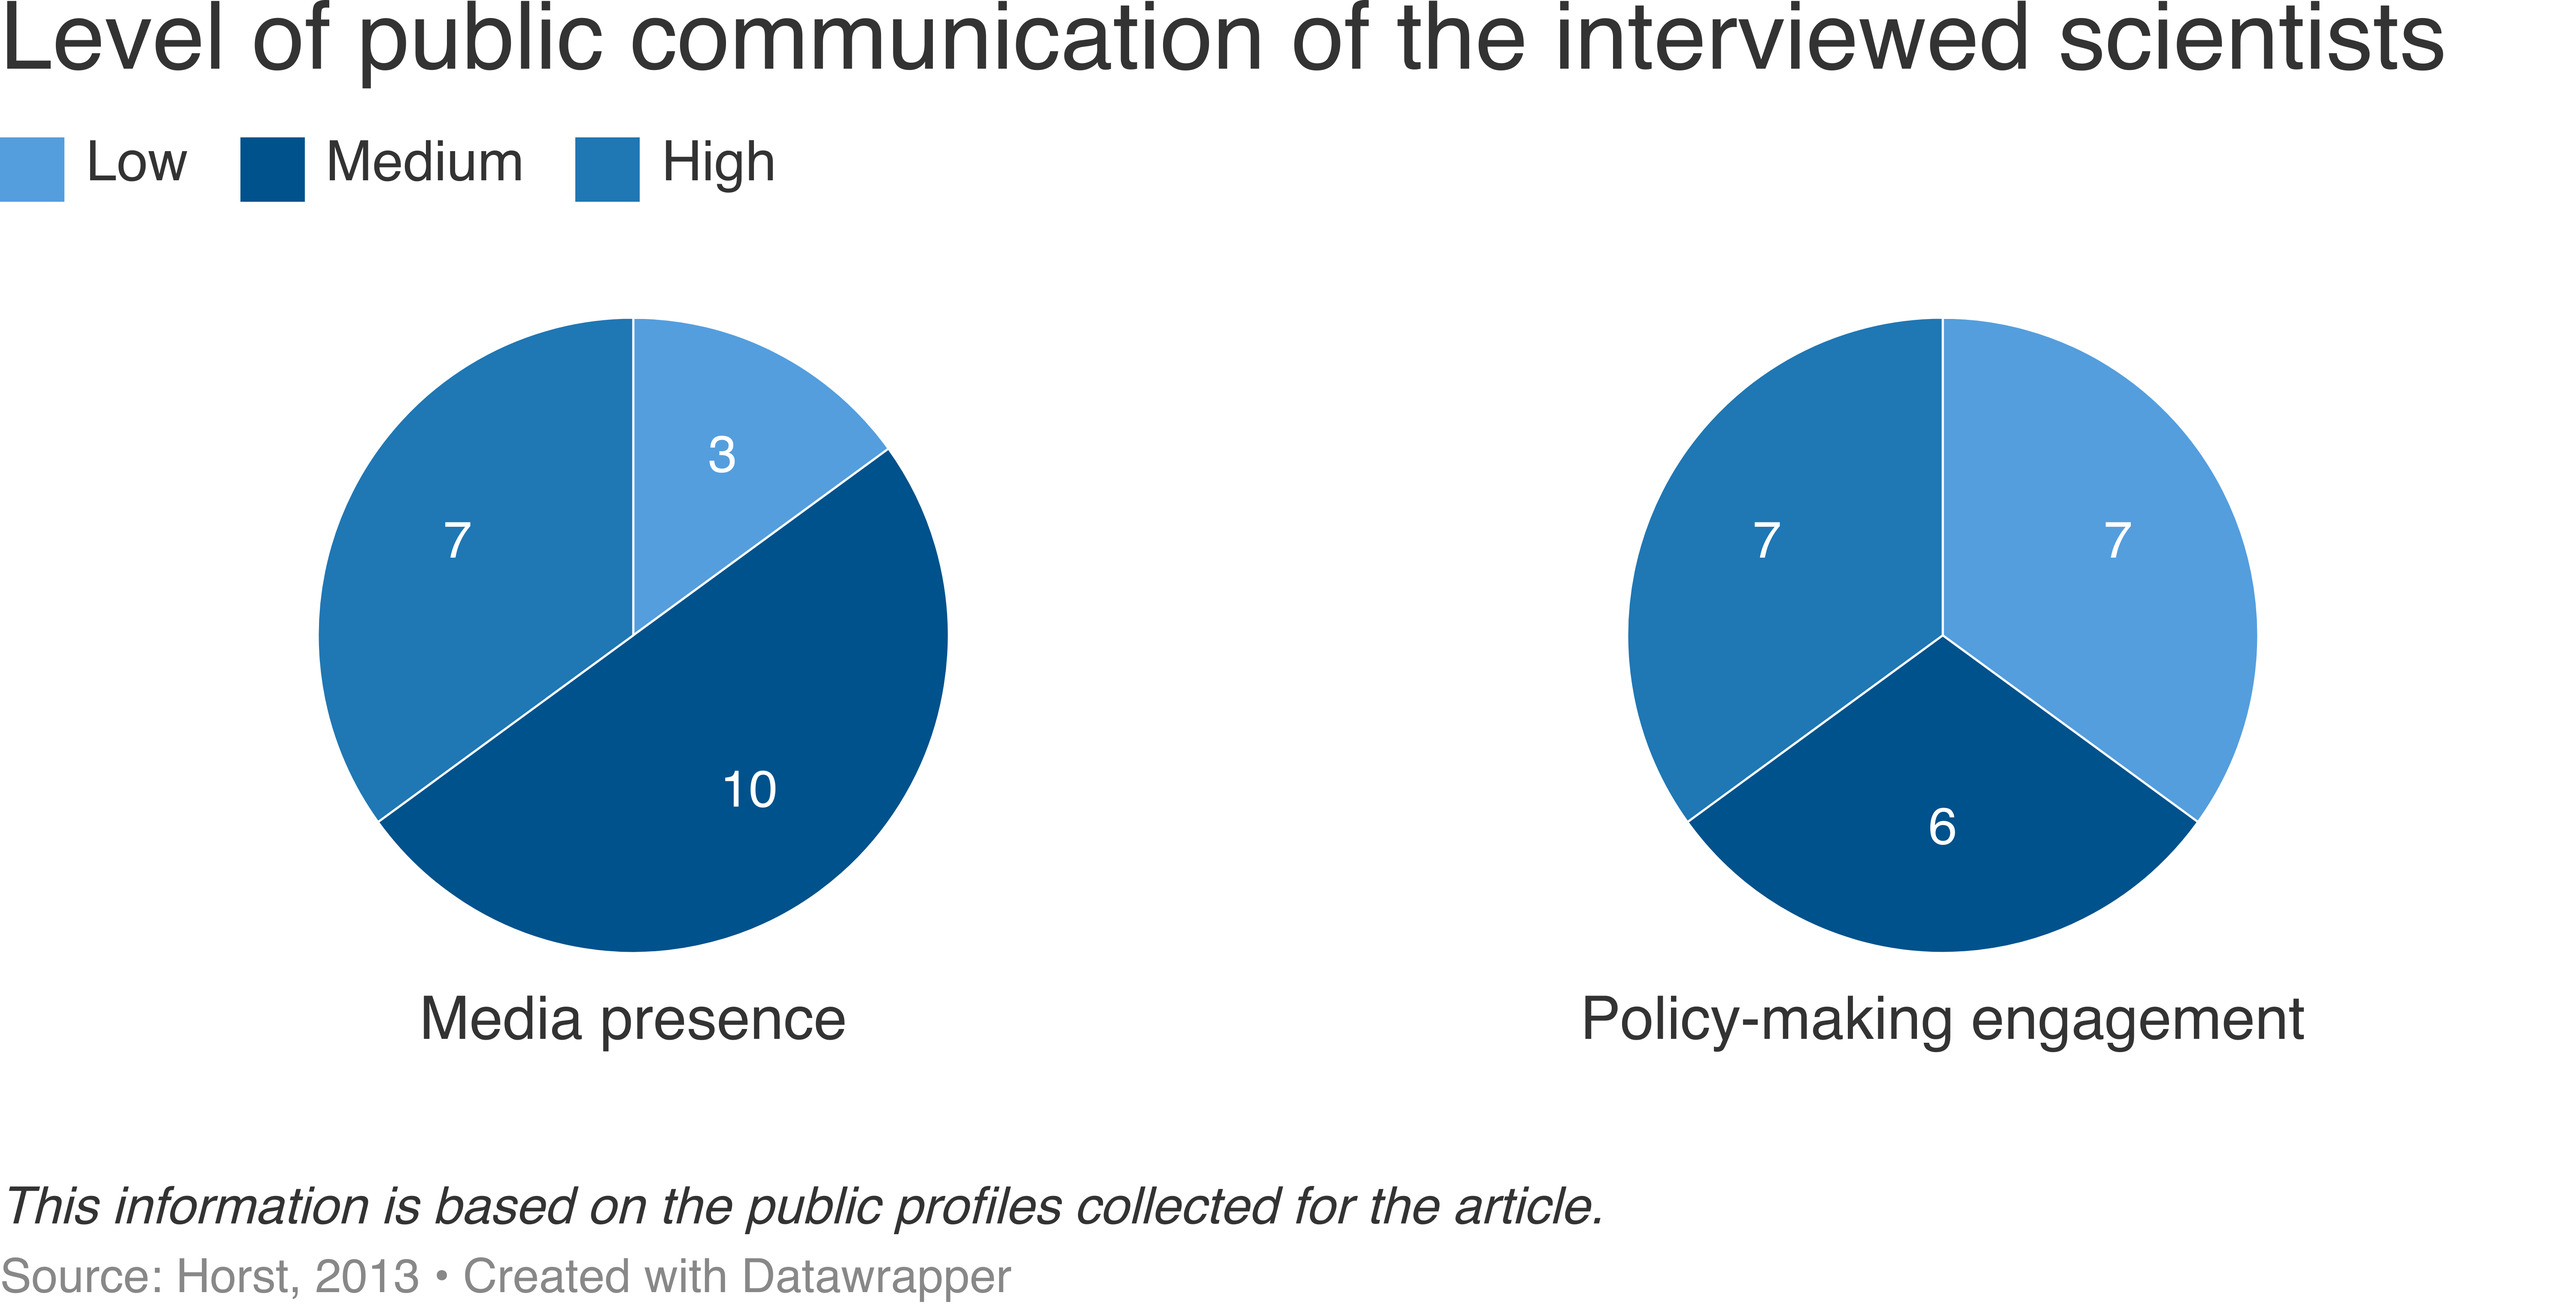
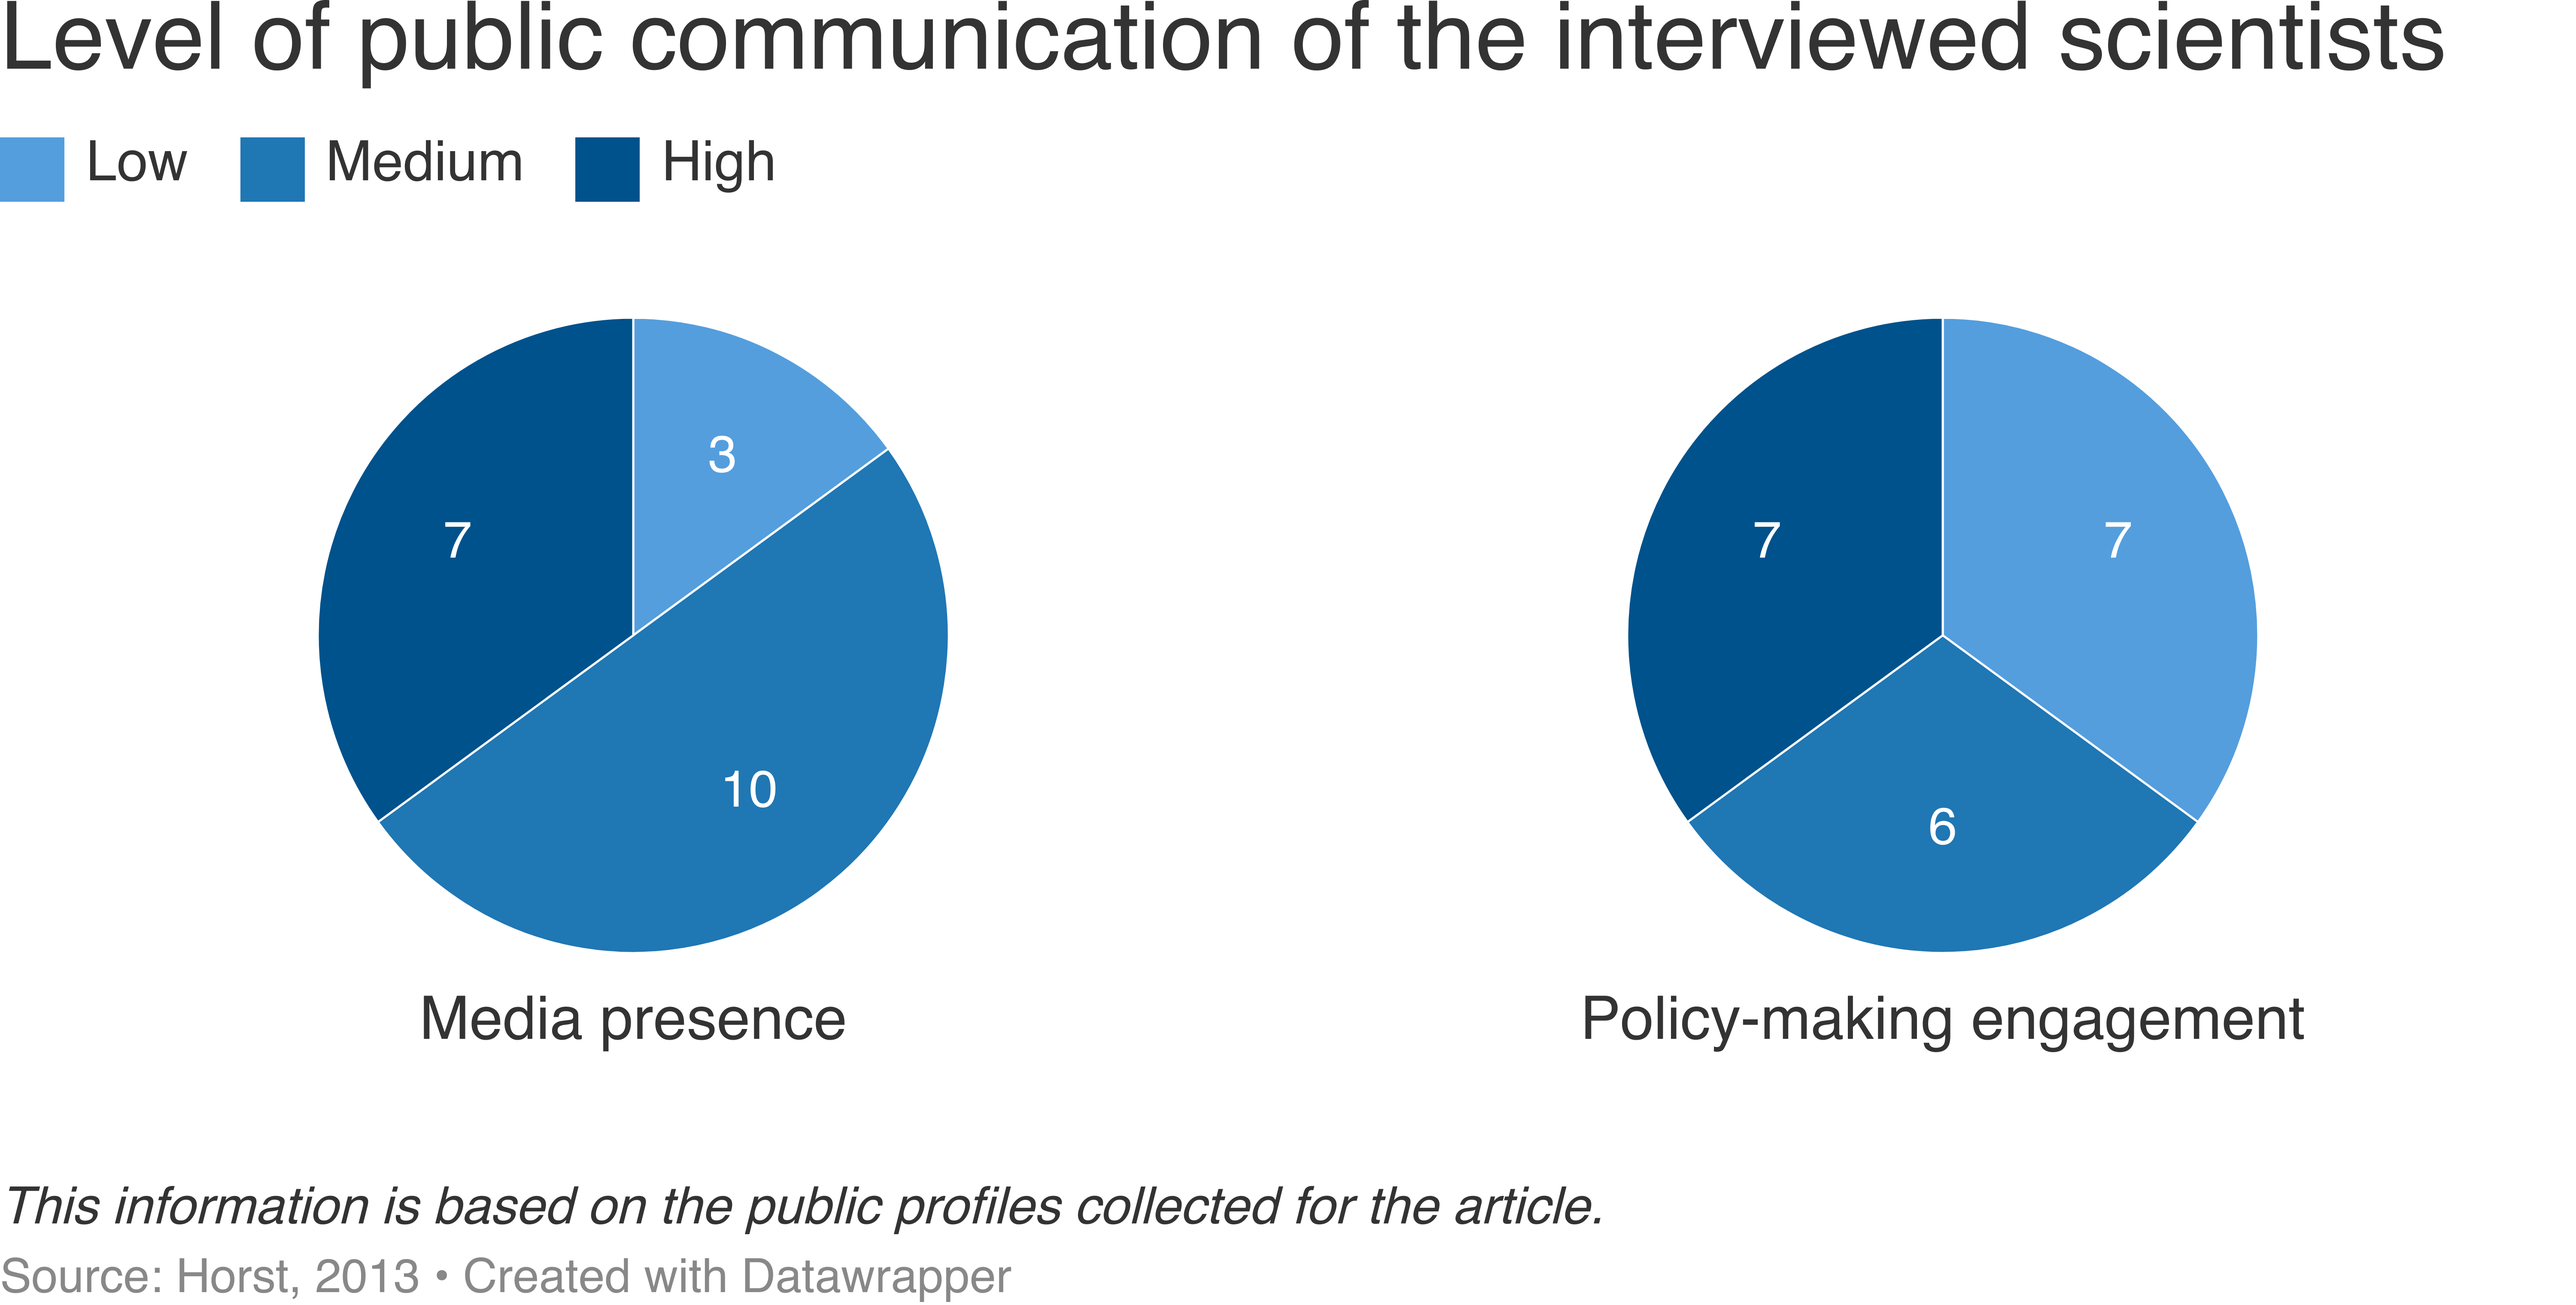
Update colors

diff --git a/datawrapper-api/charts.py b/datawrapper-api/charts.py
@@ -208,8 +208,6 @@ if __name__ == "__main__":
     )
     media_policy_data = media_policy_data.sort_values(by="category")
 
-    print(media_policy_data)
-
     chart_info = dw.create_chart(
         title="Level of public communication of the interviewed scientists",
         chart_type=SM_PIE_CHART,
@@ -232,6 +230,7 @@ if __name__ == "__main__":
                 "position": "top",
                 "label_values": False,
             },
+            "custom-colors": {"Low": "#549EDE", "High": "#00528C", "Medium": 0},
             "pie_size": {"inside_labels": 50, "outside_labels": 50},
             "slice_order": "original",
         },
